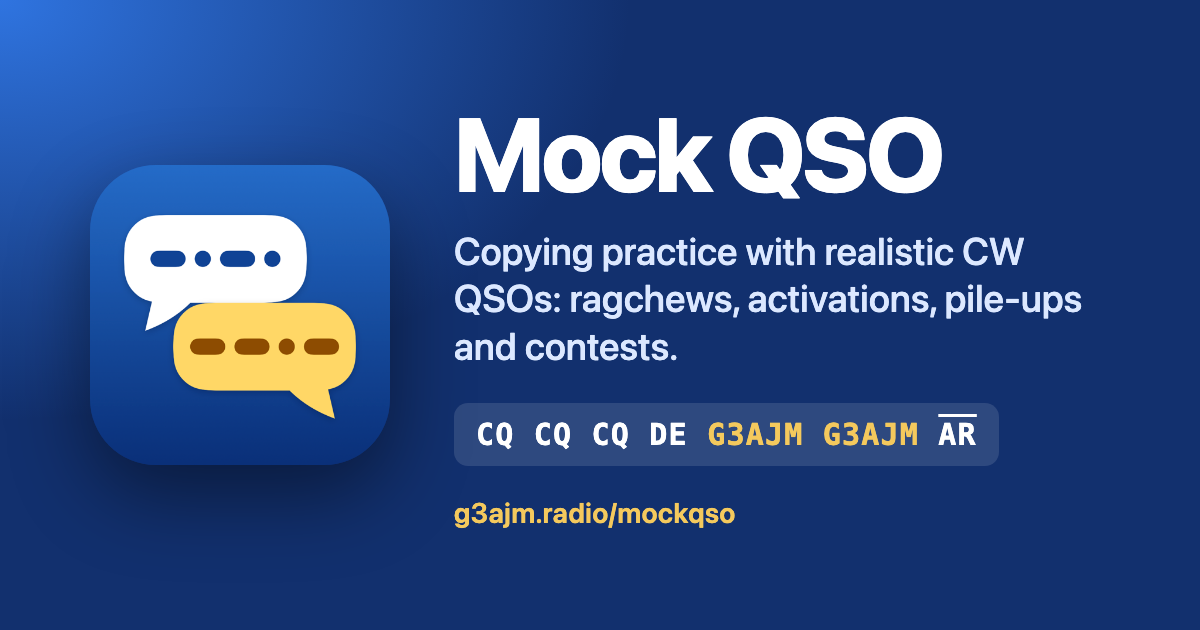
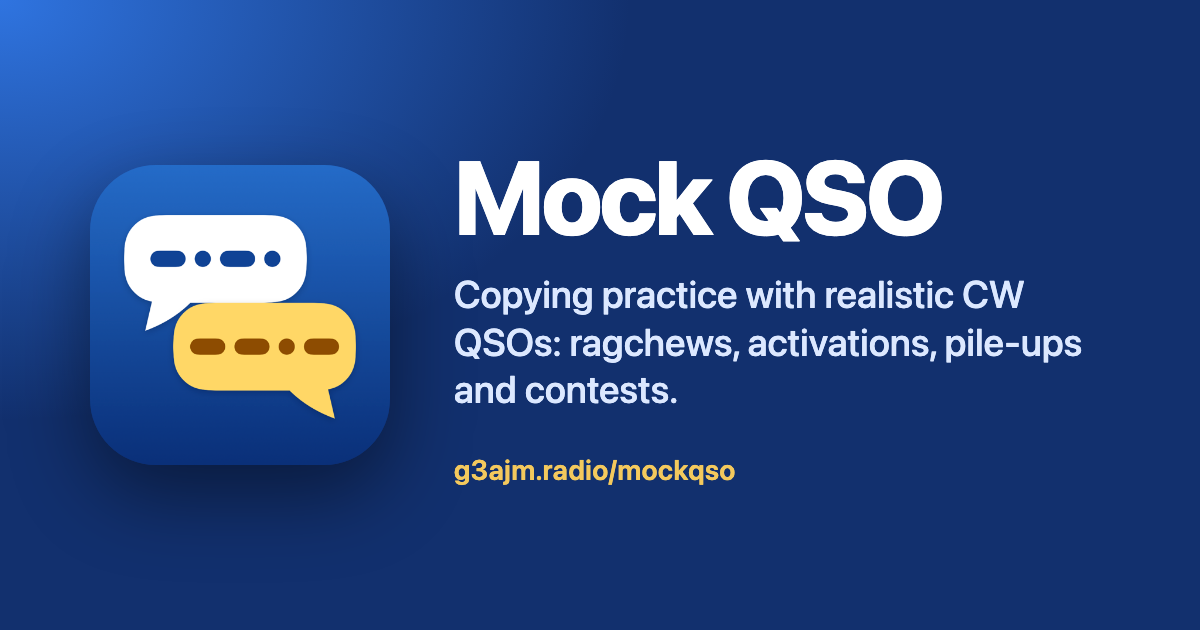
Mock QSO web: simpler share image

Changed region(s): [[0.37, 0.181, 0.925, 0.573], [0.37, 0.6032, 0.8325, 0.8444]]

diff --git a/mockqso/index.html b/mockqso/index.html
@@ -12,15 +12,15 @@
 <meta property="og:url" content="https://g3ajm.radio/mockqso/">
 <meta property="og:title" content="Mock QSO: copy realistic CW QSOs">
 <meta property="og:description" content="Ragchews, POTA and SOTA activations, pile-ups and contests, sent by operators with their own speed and fist. Free, in your browser, and it works offline.">
-<meta property="og:image" content="https://g3ajm.radio/mockqso/share.png">
+<meta property="og:image" content="https://g3ajm.radio/mockqso/share.png?v=2">
 <meta property="og:image:width" content="1200">
 <meta property="og:image:height" content="630">
-<meta property="og:image:alt" content="Mock QSO: copying practice with realistic CW QSOs. CQ CQ CQ DE G3AJM G3AJM AR.">
+<meta property="og:image:alt" content="Mock QSO: copying practice with realistic CW QSOs: ragchews, activations, pile-ups and contests.">
 <meta property="og:locale" content="en_GB">
 <meta name="twitter:card" content="summary_large_image">
 <meta name="twitter:title" content="Mock QSO: copy realistic CW QSOs">
 <meta name="twitter:description" content="Ragchews, activations, pile-ups and contests, sent by operators with their own speed and fist. Free, in your browser.">
-<meta name="twitter:image" content="https://g3ajm.radio/mockqso/share.png">
+<meta name="twitter:image" content="https://g3ajm.radio/mockqso/share.png?v=2">
 <meta name="theme-color" content="#eef1f7" media="(prefers-color-scheme: light)">
 <meta name="theme-color" content="#0b1020" media="(prefers-color-scheme: dark)">
 <link rel="icon" href="icon.png">
@@ -410,6 +410,6 @@
   </div>
 </section>
 
-<script type="module" src="app.js?v=74a2b2c"></script>
+<script type="module" src="app.js?v=5c70754"></script>
 </body>
 </html>

diff --git a/mockqso/sw.js b/mockqso/sw.js
@@ -4,7 +4,7 @@
 // the network first, so a new version is picked up whenever there is a connection; everything else is stamped
 // with ?v=VERSION and served from the cache. A new version installs alongside and the old cache is dropped.
 
-const VERSION = '74a2b2c';
+const VERSION = '5c70754';
 const CACHE = `mockqso-${VERSION}`;
 const v = `?v=${VERSION}`;
 const FILES = [
